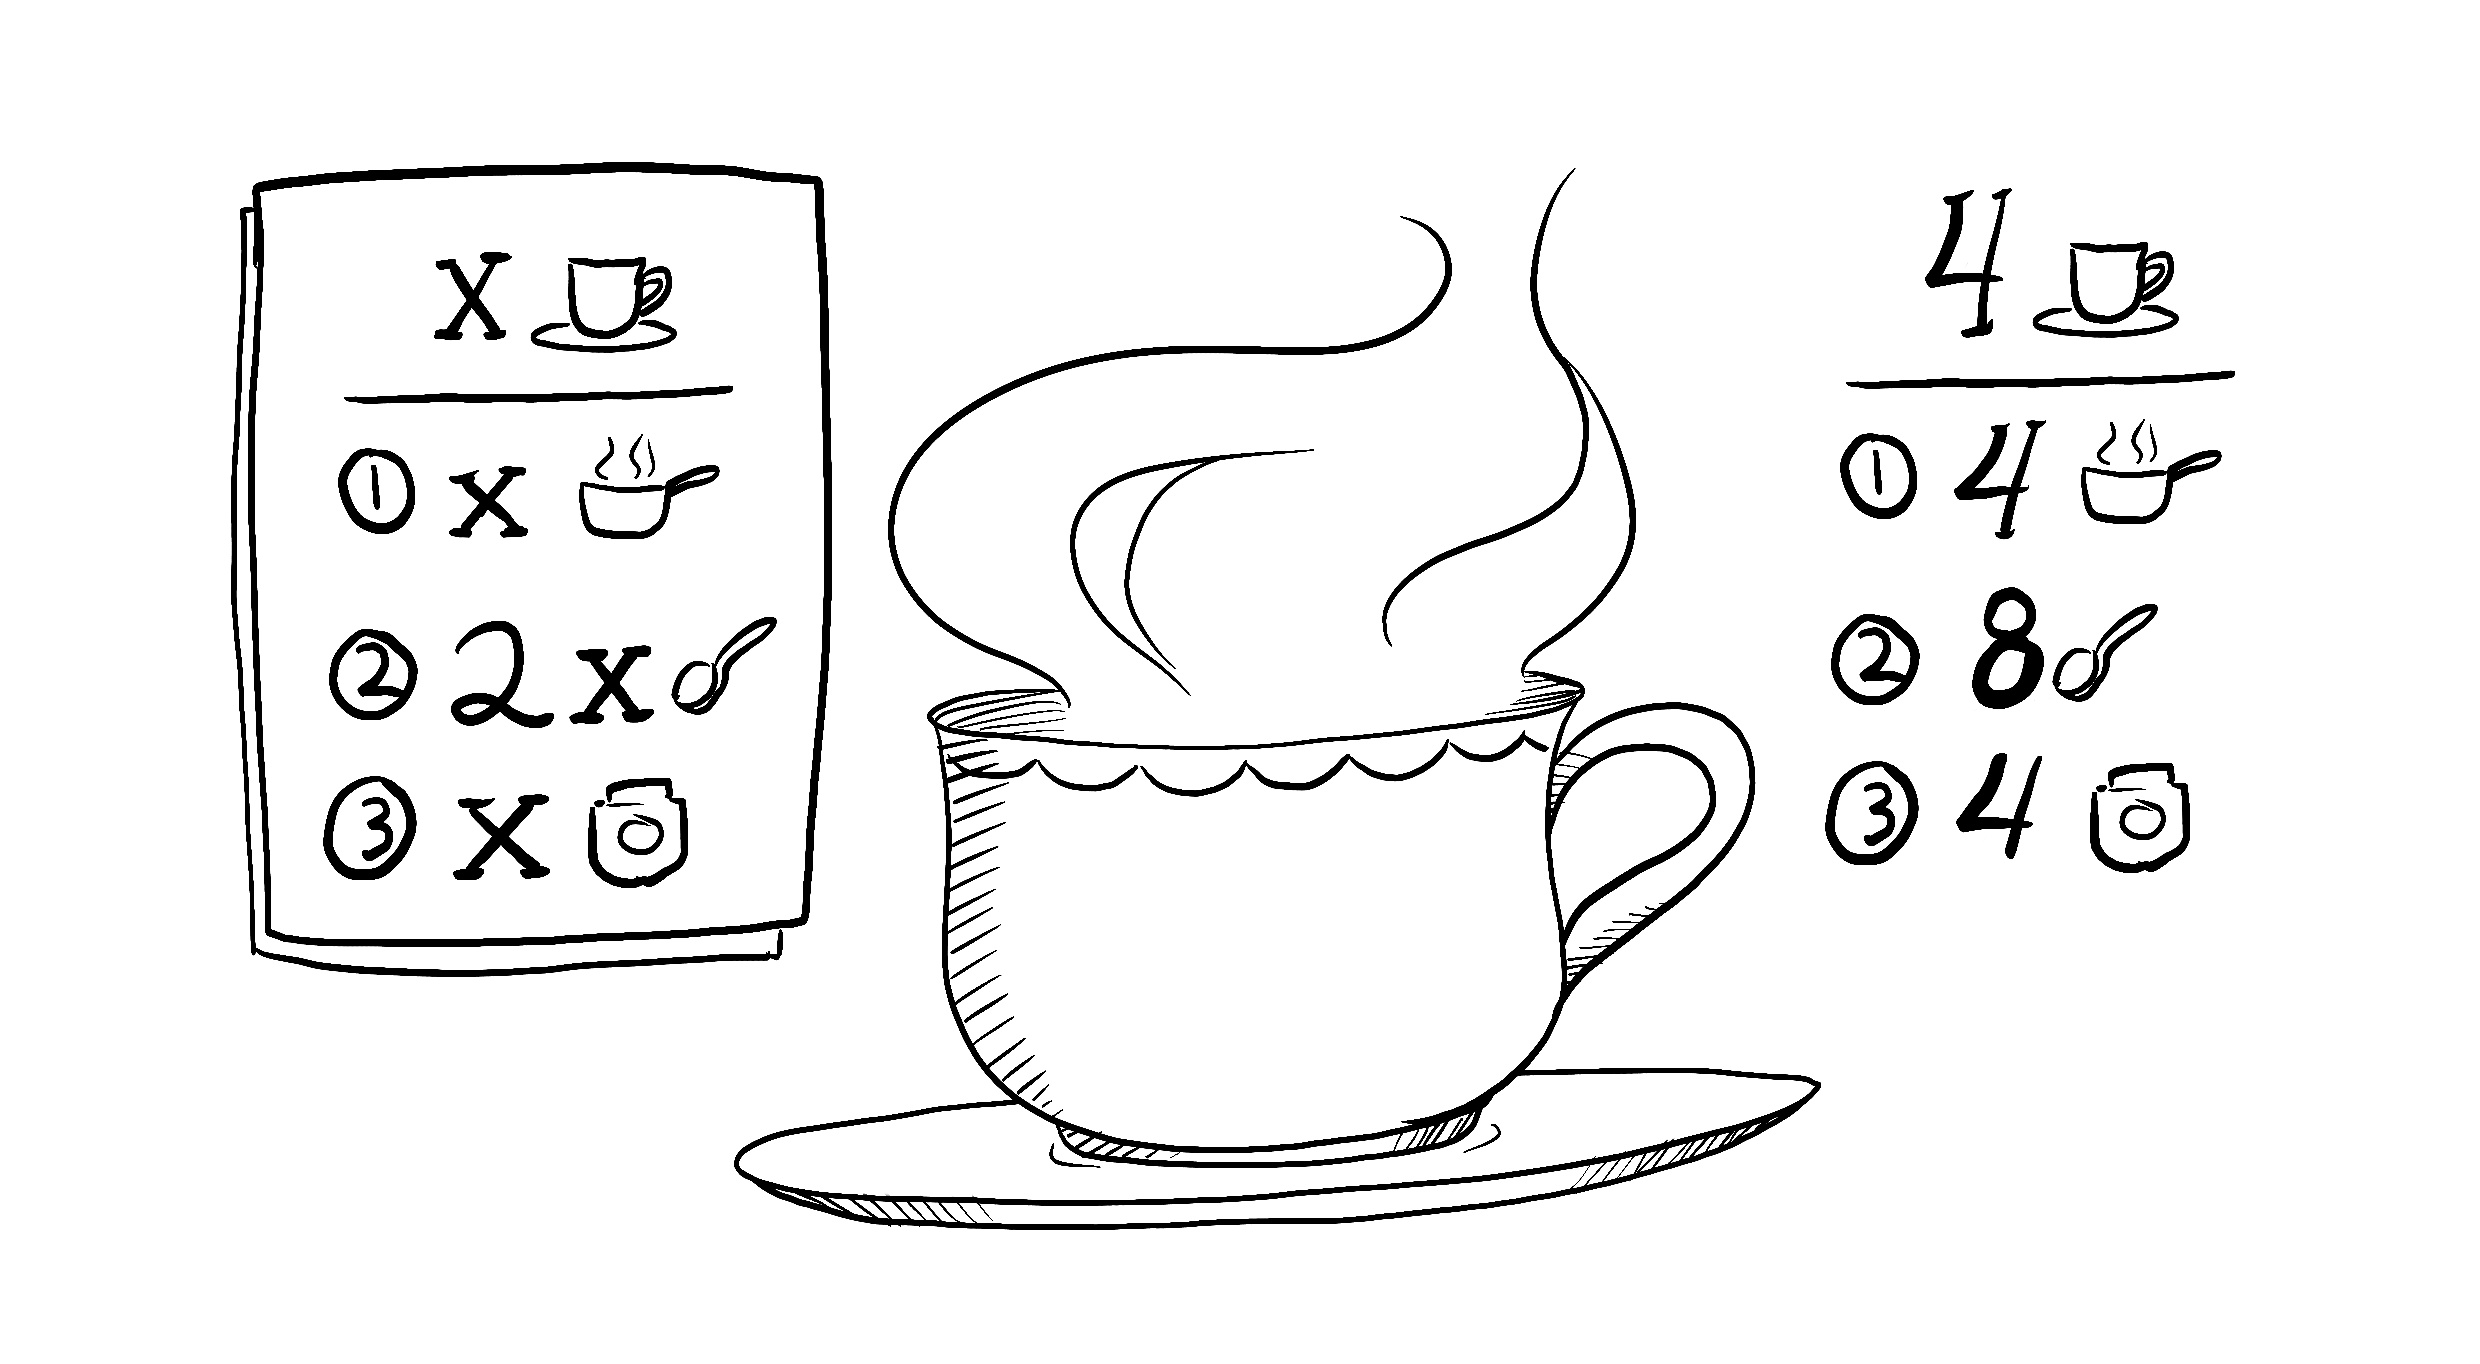
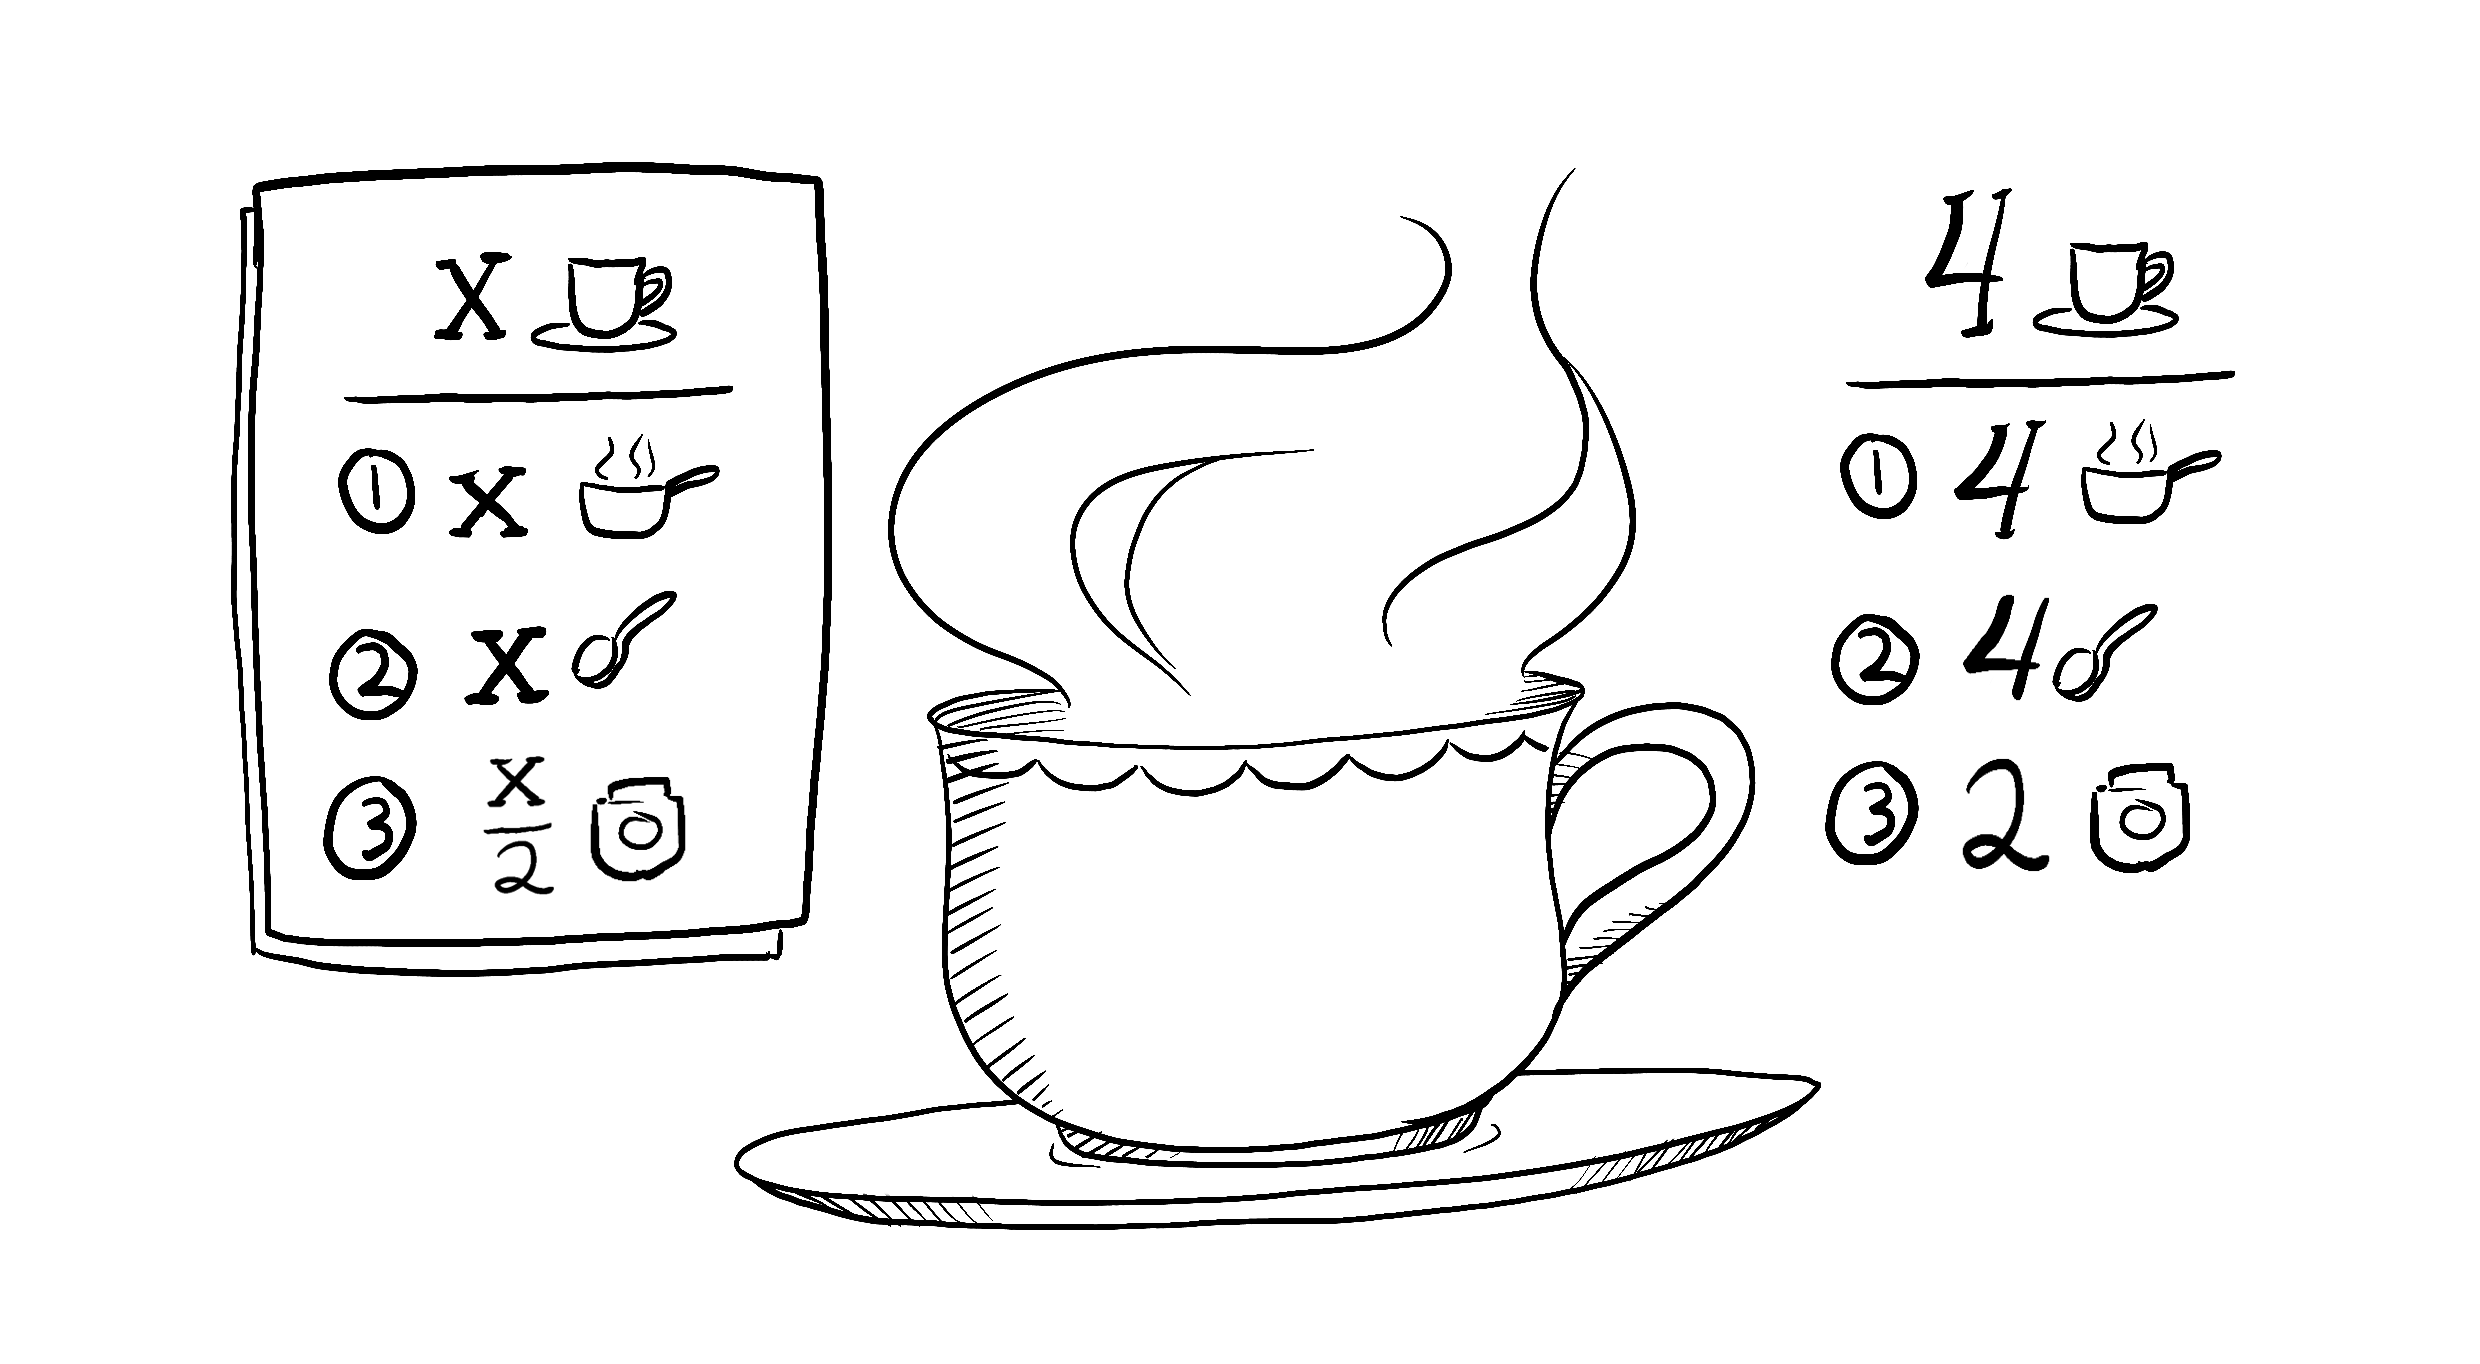
[beta] Fix Chai recipe in docs (#5342)
* [beta] Fix Chai recipe in docs

* Cut down recipe to 3 points

* Adjust explanation

Changed region(s): [[0.1863, 0.4311, 0.3105, 0.6774], [0.7762, 0.5543, 0.8383, 0.6466], [0.7762, 0.4311, 0.8383, 0.5235]]

diff --git a/beta/src/content/learn/keeping-components-pure.md b/beta/src/content/learn/keeping-components-pure.md
@@ -53,9 +53,9 @@ React is designed around this concept. **React assumes that every component you 
 function Recipe({ drinkers }) {
   return (
     <ol>    
-      <li>Boil {drinkers} cups of milk.</li>
-      <li>Add {2 * drinkers} spoons of masala spices.</li>
-      <li>Remove from heat, and add {drinkers} spoons of tea.</li>
+      <li>Boil {drinkers} cups of water.</li>
+      <li>Add {drinkers} spoons of tea and {0.5 * drinkers} spoons of spice.</li>
+      <li>Add {0.5 * drinkers} cups of milk to boil and sugar to taste.</li>
     </ol>
   );
 }
@@ -64,8 +64,8 @@ export default function App() {
   return (
     <section>
       <h1>Spiced Chai Recipe</h1>
-      <h2>For one</h2> 
-      <Recipe drinkers={1} />
+      <h2>For two</h2>
+      <Recipe drinkers={2} />
       <h2>For a gathering</h2>
       <Recipe drinkers={4} />
     </section>
@@ -75,15 +75,15 @@ export default function App() {
 
 </Sandpack>
 
-When you pass `drinkers={1}` to `Recipe`, it will return JSX containing `1 cups of milk`. Always. 
+When you pass `drinkers={2}` to `Recipe`, it will return JSX containing `2 cups of water`. Always. 
 
-If you pass `drinkers={4}`, it will return JSX containing `4 cups of milk`. Always. 
+If you pass `drinkers={4}`, it will return JSX containing `4 cups of water`. Always.
 
 Just like a math formula. 
 
 You could think of your components as recipes: if you follow them and don't introduce new ingredients during the cooking process, you will get the same dish every time. That "dish" is the JSX that the component serves to React to [render.](/learn/render-and-commit)
 
-<Illustration src="/images/docs/illustrations/i_puritea-recipe.png" alt="A tea recipe for x people: take x cups of water, add 2x spoons of spices, and x spoons of tea!" />
+<Illustration src="/images/docs/illustrations/i_puritea-recipe.png" alt="A tea recipe for x people: take x cups of water, add x spoons of tea and 0.5x spoons of spices, and 0.5x cups of milk" />
 
 ## Side Effects: (un)intended consequences {/*side-effects-unintended-consequences*/}
 
